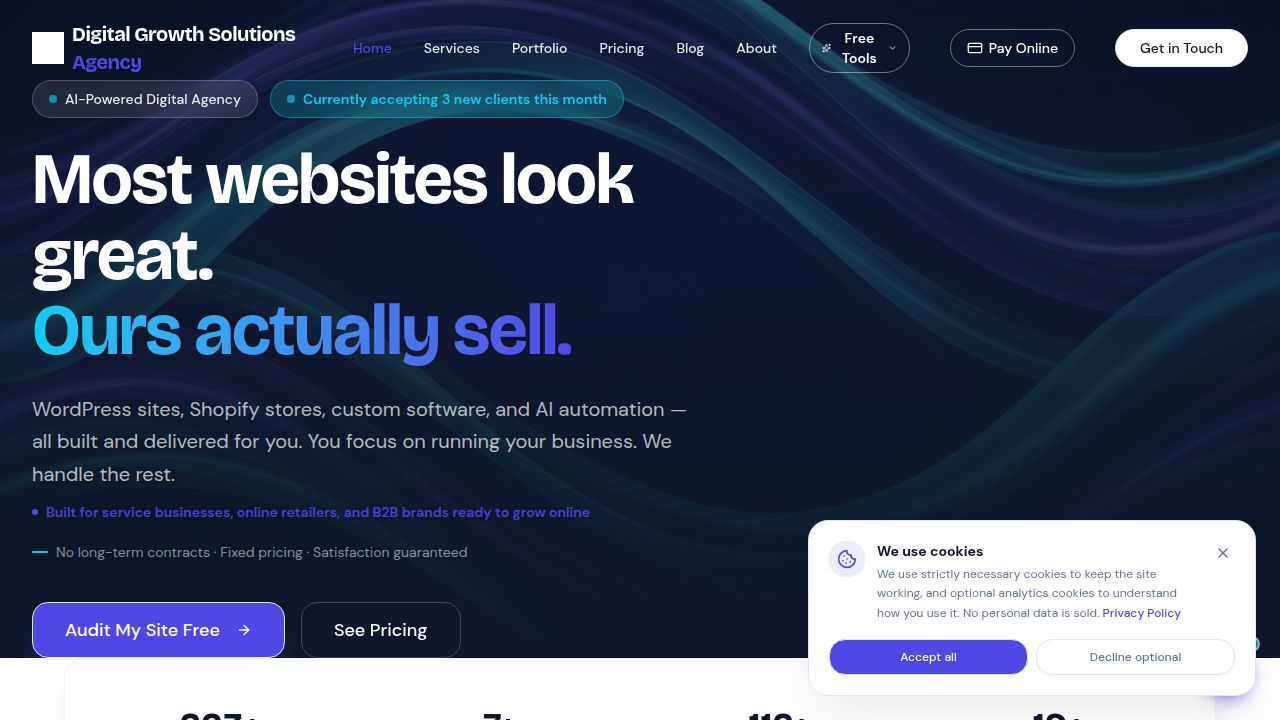
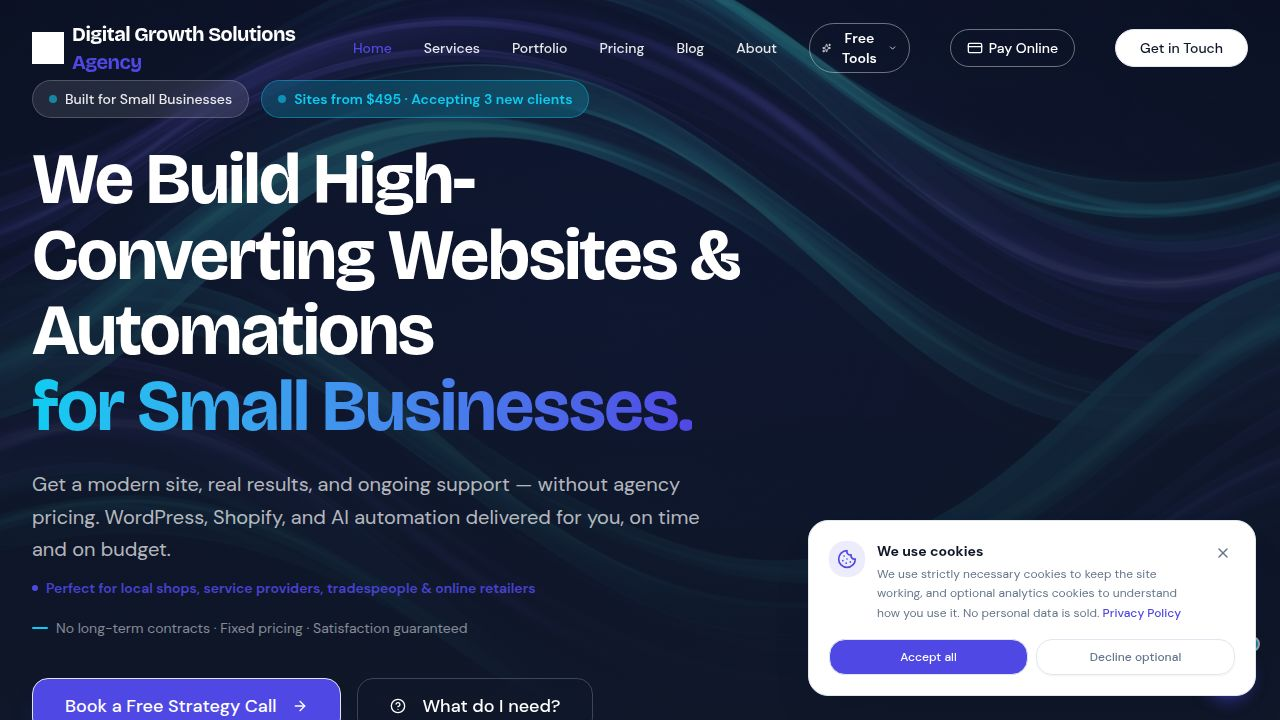
Update website homepage and pricing packages for small businesses
Rewrite homepage hero section and restructure pricing tiers with new package names and prices.

Replit-Commit-Author: Agent
Replit-Commit-Session-Id: 5ef6c367-8fd5-496b-8256-cbc616fd8ee7
Replit-Commit-Checkpoint-Type: full_checkpoint
Replit-Commit-Event-Id: 6be7a6d3-a4a8-46b4-a857-11169b392b73
Replit-Commit-Screenshot-Url: https://storage.googleapis.com/screenshot-production-us-central1/2ed8f590-bcd0-4f18-9811-17e029427d87/5ef6c367-8fd5-496b-8256-cbc616fd8ee7/qixw4uy
Replit-Helium-Checkpoint-Created: true

diff --git a/artifacts/agency-website/src/pages/Pricing.tsx b/artifacts/agency-website/src/pages/Pricing.tsx
@@ -39,11 +39,11 @@ import {
 
 const PACKAGES = [
   {
-    id: "local",
-    name: "Local",
+    id: "starter",
+    name: "Starter Site",
     tagline: "Perfect for local shops, tradespeople & service providers",
-    price: "299",
-    priceNote: "one-time · or 3 × $100/mo",
+    price: "495",
+    priceNote: "one-time · or 3 × $165/mo",
     highlight: false,
     badge: "Best for Local Biz",
     icon: Globe,
@@ -51,74 +51,97 @@ const PACKAGES = [
     bg: "bg-emerald-50",
     features: [
       "Up to 3 pages (Home, About, Contact)",
+      "Template-based — fast 5-day turnaround",
       "Mobile-responsive design",
       "Google Business Profile setup",
       "Click-to-call & contact form",
       "Google Maps embed",
       "Basic on-page SEO",
-      "14-day support included",
+      "30-day support included",
     ],
     notIncluded: ["eCommerce / online payments", "Blog or content hub", "Custom integrations"],
     cta: "Get My Site Live",
   },
   {
-    id: "starter",
-    name: "Starter",
-    tagline: "Growing businesses that need a polished, full website",
-    price: "599",
-    priceNote: "one-time · or 3 × $200/mo",
+    id: "business",
+    name: "Business Site",
+    tagline: "A polished, full website that generates leads and builds trust",
+    price: "1,295",
+    priceNote: "one-time · or 3 × $435/mo",
     highlight: false,
     icon: Zap,
     color: "text-blue-600",
     bg: "bg-blue-50",
     features: [
-      "WordPress or static site",
-      "Up to 8 pages",
-      "Mobile-responsive custom design",
-      "On-page SEO + Analytics setup",
+      "WordPress — 5–7 pages",
+      "Custom design (not a template)",
+      "Mobile-responsive with fast load times",
+      "On-page SEO + Google Analytics setup",
       "Contact form + email notifications",
-      "Speed optimisation included",
-      "30-day support included",
-      "2 rounds of revisions",
+      "Blog ready",
+      "45-day support included",
+      "3 rounds of revisions",
     ],
     notIncluded: ["eCommerce / payments", "AI integrations"],
     cta: "Get Started",
   },
   {
-    id: "growth",
-    name: "Growth",
-    tagline: "Serious about growing online — sales, leads, and content",
-    price: "1,499",
-    priceNote: "one-time · or 4 × $375/mo",
+    id: "ecommerce",
+    name: "eCommerce",
+    tagline: "Shopify or WooCommerce built to convert browsers into buyers",
+    price: "1,995",
+    priceNote: "one-time · or 4 × $499/mo",
     highlight: true,
     badge: "Most Popular",
     icon: Sparkles,
     color: "text-primary",
     bg: "bg-primary/10",
     features: [
-      "WordPress or Shopify / WooCommerce",
-      "Up to 20 pages or products",
-      "Custom design (not a template)",
-      "On-page SEO + site speed tuning",
+      "Shopify or WooCommerce setup",
+      "Up to 50 products configured",
+      "Conversion-optimised design",
       "Payment gateway integration",
-      "Blog / content hub setup",
-      "CRM or email marketing integration",
+      "Email marketing flows (abandoned cart etc.)",
+      "On-page SEO + speed tuning",
       "60-day support included",
       "3 rounds of revisions",
     ],
     notIncluded: ["Custom software / web app", "AI automation pipelines"],
-    cta: "Start Your Project",
+    cta: "Start Your Store",
+  },
+  {
+    id: "ai-automation",
+    name: "AI Automation",
+    tagline: "Automate follow-ups, lead capture & repeat tasks — 24/7",
+    price: "795",
+    priceNote: "one-time setup · or 3 × $265/mo",
+    highlight: false,
+    badge: "High ROI",
+    icon: Bot,
+    color: "text-violet-600",
+    bg: "bg-violet-50",
+    features: [
+      "CRM setup & automation workflows",
+      "Automated lead follow-up sequences",
+      "Appointment booking & reminders",
+      "Contact form → CRM pipeline",
+      "AI chatbot for your website",
+      "Integration with your existing tools",
+      "30-day support included",
+    ],
+    notIncluded: ["Custom software development"],
+    cta: "Automate My Business",
   },
   {
     id: "pro",
-    name: "Pro Build",
-    tagline: "Full-power custom sites, web apps, and eCommerce stores",
+    name: "Pro / Custom",
+    tagline: "Fully custom builds, web apps & complex eCommerce solutions",
     price: "3,499",
     priceNote: "starting from · payment plans available",
     highlight: false,
     icon: Code,
-    color: "text-violet-600",
-    bg: "bg-violet-50",
+    color: "text-orange-600",
+    bg: "bg-orange-50",
     features: [
       "Fully custom design & development",
       "Unlimited pages / products",
@@ -195,7 +218,7 @@ const MAINTENANCE_PLANS = [
   {
     id: "care-basic",
     name: "Care Basic",
-    price: "$99",
+    price: "$49",
     period: "/month",
     highlight: false,
     features: [
@@ -203,14 +226,14 @@ const MAINTENANCE_PLANS = [
       "Weekly off-site backups",
       "Uptime monitoring",
       "Monthly status report",
-      "1 hr support per month",
+      "Security checks",
     ],
     notFor: "Sites with eCommerce or custom plugins",
   },
   {
     id: "care-pro",
     name: "Care Pro",
-    price: "$249",
+    price: "$99",
     period: "/month",
     highlight: true,
     badge: "Best Value",
@@ -220,24 +243,23 @@ const MAINTENANCE_PLANS = [
       "Daily backups + 1-click restore",
       "Security scanning & WAF",
       "Performance checks monthly",
-      "3 hrs dev time per month",
-      "Priority response (4 hrs)",
+      "1 hr dev time per month",
+      "Priority response (8 hrs)",
     ],
     notFor: "",
   },
   {
     id: "care-elite",
     name: "Care Elite",
-    price: "$399",
+    price: "$149",
     period: "/month",
     highlight: false,
     features: [
       "Everything in Care Pro",
       "Hourly backups",
-      "Dedicated account manager",
-      "8 hrs dev time per month",
+      "3 hrs dev time per month",
       "Quarterly UX review",
-      "1-hour response SLA",
+      "Priority response (4 hrs)",
       "Quarterly strategy call",
     ],
     notFor: "",

diff --git a/artifacts/agency-website/src/pages/Home.tsx b/artifacts/agency-website/src/pages/Home.tsx
@@ -61,8 +61,8 @@ const TESTIMONIALS = [
 
 export default function Home() {
   useMeta({
-    title: "WordPress, Shopify & AI Automation Experts",
-    description: "Digital Growth Solutions Agency builds high-converting websites, eCommerce stores, and AI automation systems. Fast delivery, transparent pricing, and results you can measure."
+    title: "Websites & AI Automation for Small Businesses",
+    description: "Get a modern, high-converting website and real results — without agency pricing. WordPress, Shopify, and AI automation built for small businesses, local shops, and service providers."
   });
 
   const [finderOpen, setFinderOpen] = useState(false);
@@ -106,26 +106,26 @@ export default function Home() {
               <div className="flex flex-wrap gap-3 mb-6">
                 <div className="inline-flex items-center gap-2 px-4 py-2 rounded-full bg-white/10 backdrop-blur-md border border-white/20">
                   <span className="w-2 h-2 rounded-full bg-accent animate-pulse" />
-                  <span className="text-white/90 text-sm font-medium">AI-Powered Digital Agency</span>
+                  <span className="text-white/90 text-sm font-medium">Built for Small Businesses</span>
                 </div>
                 <div className="inline-flex items-center gap-2 px-4 py-2 rounded-full bg-accent/20 backdrop-blur-md border border-accent/40">
                   <span className="w-2 h-2 rounded-full bg-accent animate-pulse" />
-                  <span className="text-accent text-sm font-semibold">Currently accepting 3 new clients this month</span>
+                  <span className="text-accent text-sm font-semibold">Sites from $495 · Accepting 3 new clients</span>
                 </div>
               </div>
               
               <h1 className="text-5xl md:text-7xl font-display font-bold text-white leading-[1.05] tracking-tight mb-6">
-                Most websites look great.<br />
-                <span className="text-transparent bg-clip-text bg-gradient-to-r from-accent to-primary">Ours actually sell.</span>
+                We Build High-Converting Websites & Automations<br />
+                <span className="text-transparent bg-clip-text bg-gradient-to-r from-accent to-primary">for Small Businesses.</span>
               </h1>
               
               <p className="text-lg md:text-xl text-white/70 leading-relaxed mb-3 max-w-2xl">
-                WordPress sites, Shopify stores, custom software, and AI automation — all built and delivered for you. You focus on running your business. We handle the rest.
+                Get a modern site, real results, and ongoing support — without agency pricing. WordPress, Shopify, and AI automation delivered for you, on time and on budget.
               </p>
 
               <p className="text-sm text-primary/90 font-semibold mb-5 flex items-center gap-2">
                 <span className="inline-block w-1.5 h-1.5 rounded-full bg-primary shrink-0" />
-                Built for service businesses, online retailers, and B2B brands ready to grow online
+                Perfect for local shops, service providers, tradespeople & online retailers
               </p>
 
               <p className="text-sm text-white/50 mb-10 flex items-center gap-2">
@@ -134,12 +134,12 @@ export default function Home() {
               </p>
               
               <div className="flex flex-col sm:flex-row gap-4">
-                <Link href="/audit">
+                <Link href="/contact">
                   <Button
                     className="h-14 px-8 text-lg rounded-xl bg-primary hover:bg-primary/90 text-white shadow-xl shadow-primary/25 hover:-translate-y-1 transition-all"
-                    onClick={() => GA.ctaClick("hero_audit_free")}
+                    onClick={() => GA.ctaClick("hero_strategy_call")}
                   >
-                    Audit My Site Free
+                    Book a Free Strategy Call
                     <ArrowRight className="ml-2 w-5 h-5" />
                   </Button>
                 </Link>
